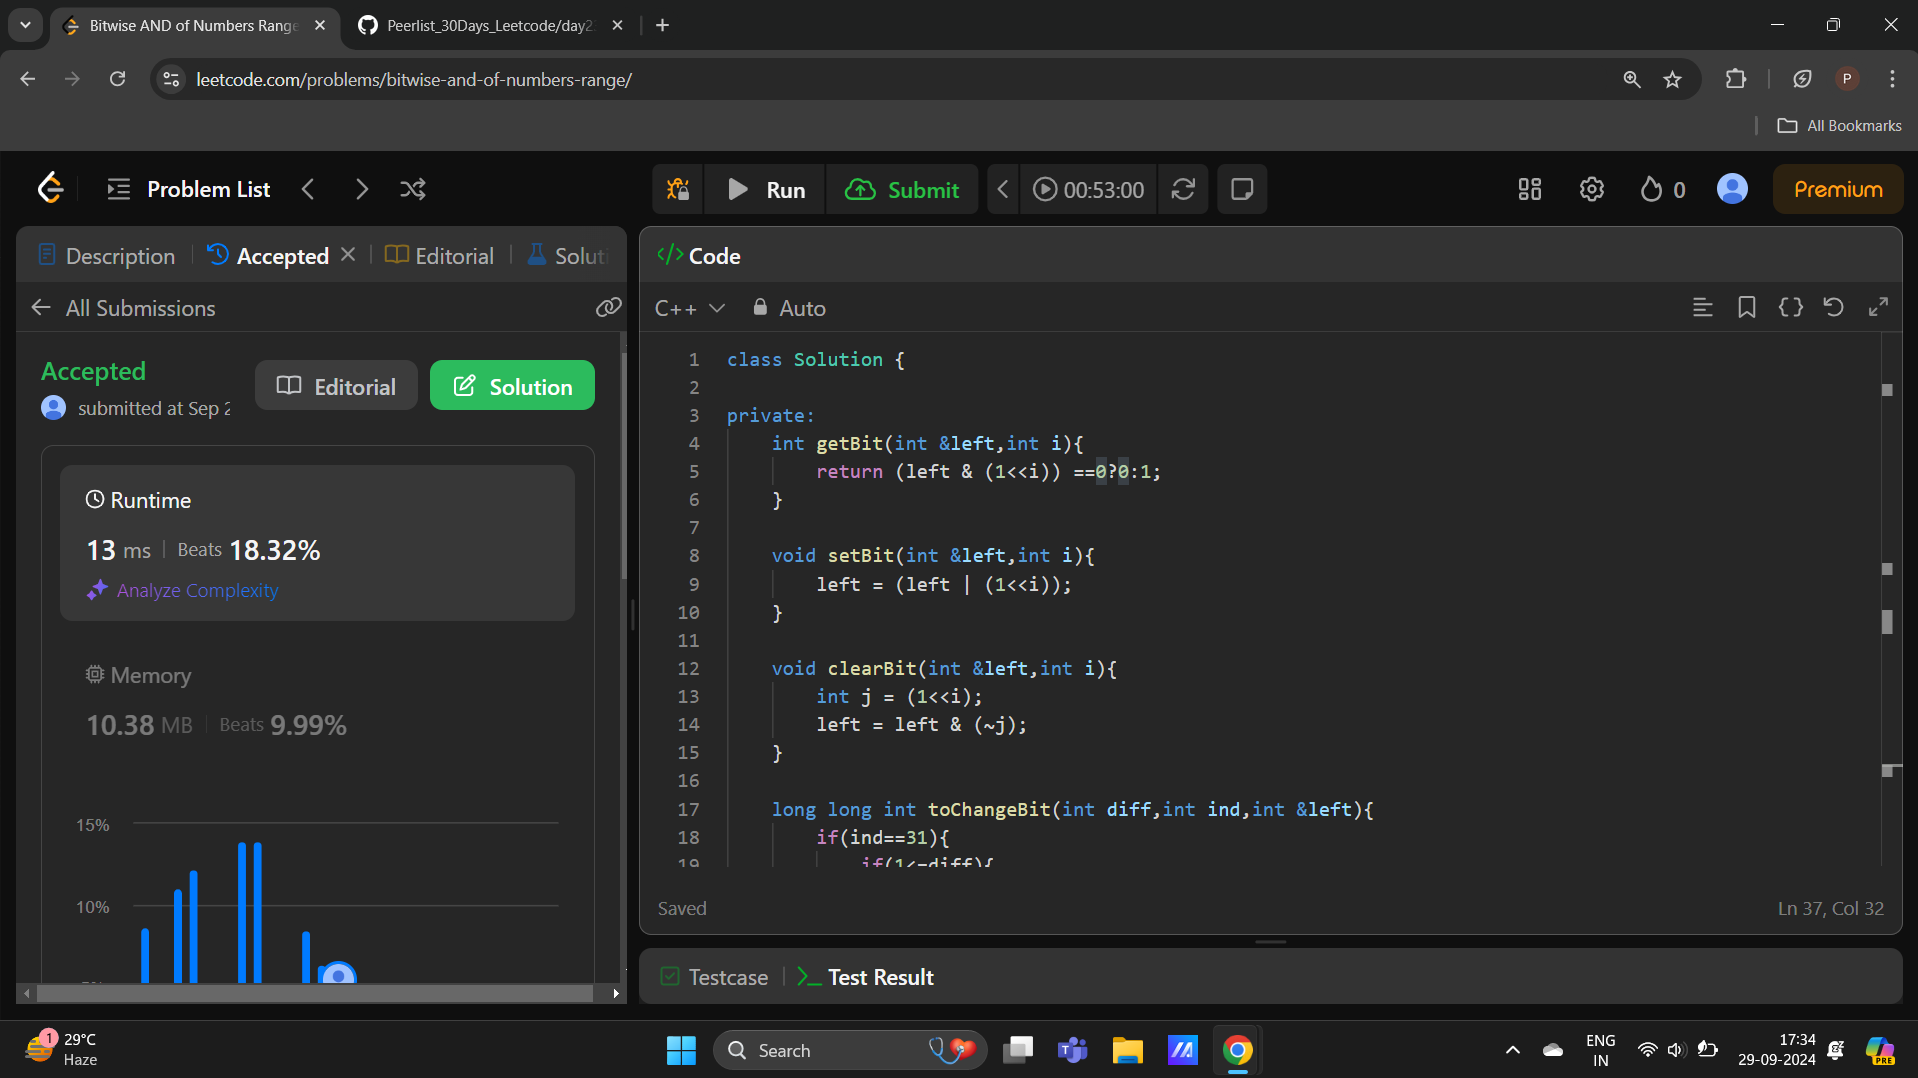
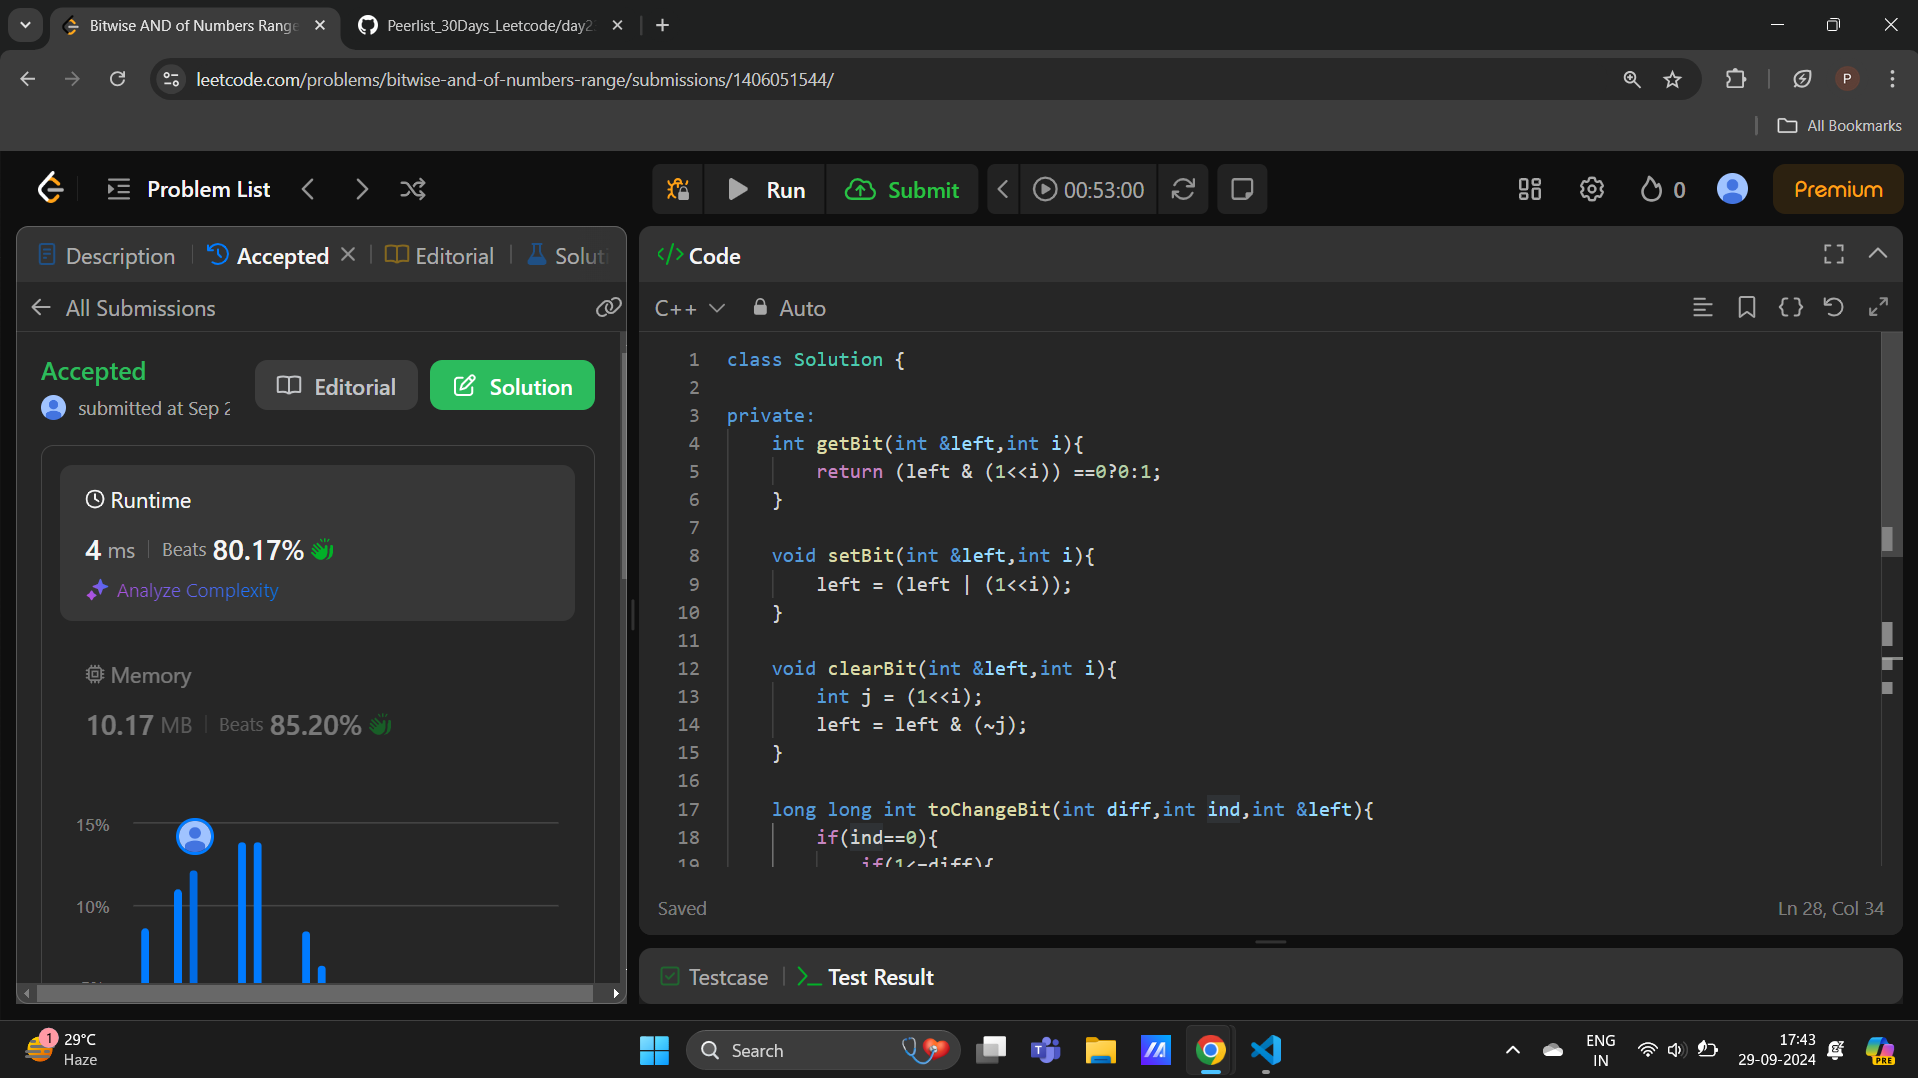
Add code and screenshot for updated ind

diff --git a/day23/bitwiseAndOfNumbersRange.cpp b/day23/bitwiseAndOfNumbersRange.cpp
@@ -20,7 +20,7 @@ private:
 
     long long int toChangeBit(int diff, int ind, int &left)
     {
-        if (ind == 31)
+        if (ind == 0)
         {
             if (1 <= diff)
             {
@@ -29,14 +29,14 @@ private:
             return 1;
         }
         long long int ans = 0;
-        if (getBit(left, 31 - ind - 1) == 0)
+        if (getBit(left, ind - 1) == 0)
         {
-            ans = pow(2, 31 - ind - 1);
+            ans = pow(2, ind - 1);
         }
-        ans += toChangeBit(diff, ind + 1, left);
+        ans += toChangeBit(diff, ind - 1, left);
         if (ans <= diff)
         {
-            clearBit(left, 31 - ind);
+            clearBit(left, ind);
         }
         return ans;
     }
@@ -44,7 +44,7 @@ private:
 public:
     int rangeBitwiseAnd(int left, int right)
     {
-        toChangeBit(right - left, 0, left);
+        toChangeBit(right - left, 31, left);
         return left;
     }
 };
